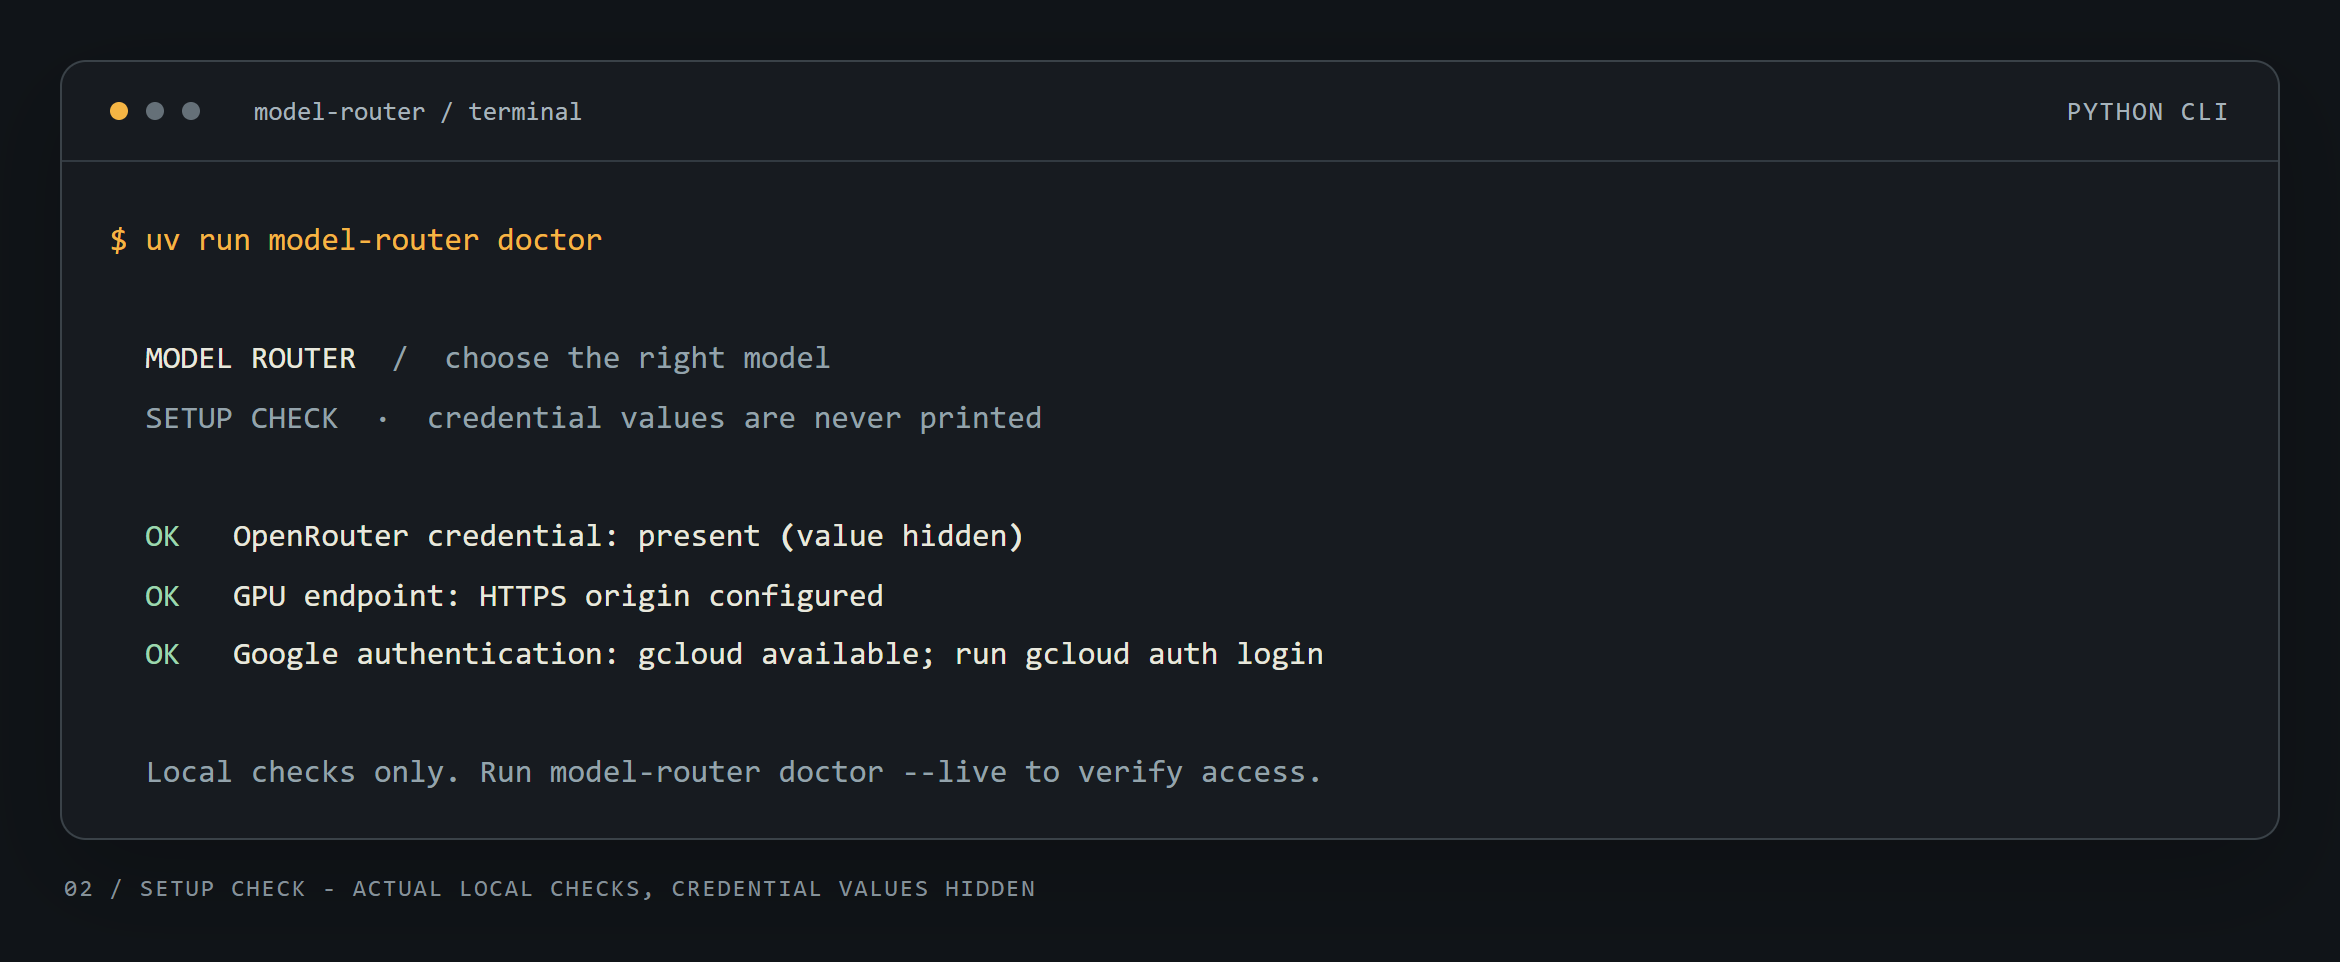
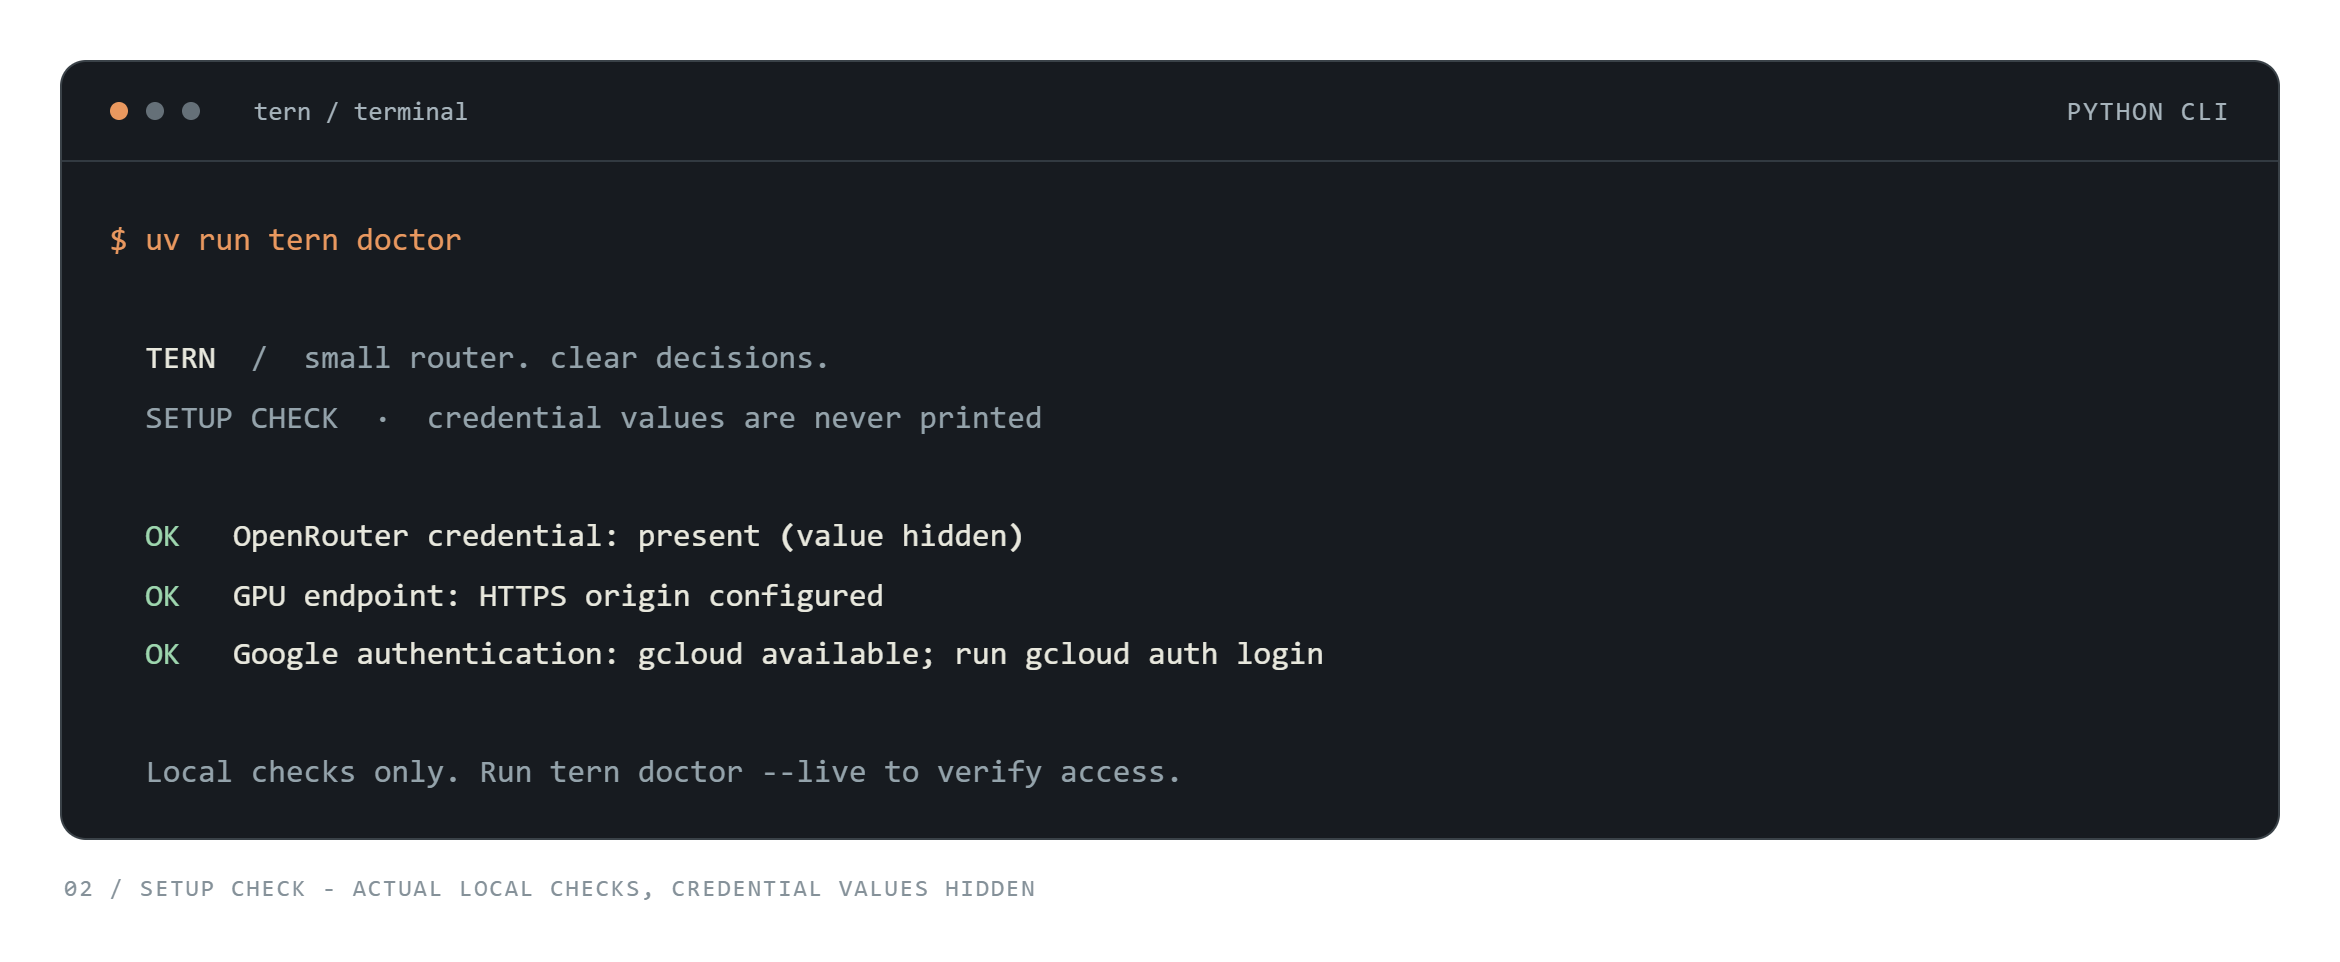
Rebrand Tern with transparent flight marks and theme-aware wordmarks

diff --git a/scripts/render_assets.py b/scripts/render_assets.py
@@ -42,7 +42,7 @@ def capture(command, stem, caption, browser):
         file=output, record=True, width=108, force_terminal=True, color_system="truecolor",
         legacy_windows=False,
     )
-    console.print("$ uv run model-router " + " ".join(command), style="accent")
+    console.print("$ uv run tern " + " ".join(command), style="accent")
     result = subprocess.run(
         [
             sys.executable,
@@ -70,13 +70,13 @@ def capture(command, stem, caption, browser):
     (ASSETS / f"{stem}.txt").write_text(transcript, encoding="utf-8")
     html = """<!doctype html><html><head><meta charset="utf-8"><style>
       * { box-sizing: border-box; }
-      body { margin: 0; background: #101418; padding: 30px; color: #e8e8dd; }
+      body { margin: 0; background: transparent; padding: 30px; color: #e8e8dd; }
       .frame { border: 1px solid #3a4248; border-radius: 13px; overflow: hidden;
-        background: #171b20; box-shadow: 0 18px 50px #0003; }
+        background: #171b20; }
       .bar { height: 50px; border-bottom: 1px solid #323a41; display: flex;
         align-items: center; padding: 0 24px; gap: 9px; font: 13px 'Consolas', monospace; }
       .dot { width: 9px; height: 9px; border-radius: 50%; background: #657078; }
-      .dot:first-child { background: #f5b544; }
+      .dot:first-child { background: #e9985f; }
       .title { margin-left: 18px; color: #a6b3bb; }
       .tag { margin-left: auto; color: #a6b3bb; letter-spacing: 1px; }
       pre { margin: 0; padding: 24px 24px 18px; font: 16px/1.85 'Consolas', 'Liberation Mono', monospace;
@@ -85,15 +85,15 @@ def capture(command, stem, caption, browser):
         letter-spacing: 1px; }
     </style></head><body><main><div class="frame"><div class="bar">
       <span class="dot"></span><span class="dot"></span><span class="dot"></span>
-      <span class="title">model-router / terminal</span><span class="tag">PYTHON CLI</span>
+      <span class="title">tern / terminal</span><span class="tag">PYTHON CLI</span>
       </div><pre>TERMINAL</pre></div><div class="caption">CAPTION</div></main></body></html>"""
     page = browser.new_page(viewport={"width": 1170, "height": 750}, device_scale_factor=2)
     page.set_content(html.replace("TERMINAL", terminal).replace("CAPTION", caption))
-    page.screenshot(path=str(ASSETS / f"{stem}.png"), full_page=True)
+    page.screenshot(path=str(ASSETS / f"{stem}.png"), full_page=True, omit_background=True)
     # Crop by choosing a viewport matching layout, not by editing the resulting image.
     height = page.locator("body").evaluate("el => el.getBoundingClientRect().height")
     page.set_viewport_size({"width": 1170, "height": round(height)})
-    page.screenshot(path=str(ASSETS / f"{stem}.png"), full_page=True)
+    page.screenshot(path=str(ASSETS / f"{stem}.png"), full_page=True, omit_background=True)
     page.close()
     print(f"Saved {stem}.png and text transcript")
 

diff --git a/src/model_router/cli.py b/src/model_router/cli.py
@@ -39,7 +39,7 @@ def make_console(**kwargs):
 
 def heading(console, subtitle):
     console.print()
-    console.print("[accent bold]  TERN[/]  [muted]/  choose the right model[/]")
+    console.print("[accent bold]  TERN[/]  [muted]/  small router. clear decisions.[/]")
     console.print(f"  [muted]{subtitle}[/]")
     console.print()
 
@@ -224,7 +224,7 @@ async def chat(args, console):
 
 def parser():
     result = argparse.ArgumentParser(
-        prog="tern", description="Choose the right model. Start with a free offline demo."
+        prog="tern", description="Small router. Clear decisions. Start with a free offline demo."
     )
     result.add_argument(
         "--env-file", type=Path, default=Path(".env"), help="local configuration (default: .env)"

diff --git a/docs/branding.md b/docs/branding.md
@@ -1,26 +1,32 @@
-# Model Router identity
+# Tern identity
 
-The branching route mark represents one request and a deliberate choice between two model tiers. The visual language uses graphite, warm ivory and amber, with monospace terminal typography. Assets work on GitHub's light and dark README surfaces.
+**Tern — small router, clear decisions.**
+
+A tern's flight gives the project its name and mark. Two angular wings meet at a junction, suggesting a choice of routes. The identity uses burnt orange with charcoal or ivory lettering. The logo and wordmarks have real alpha transparency: no rectangular banner, grid, or painted backdrop.
 
 | Asset | File | Purpose |
 |---|---|---|
-| Transparent route mark | [logo.png](assets/logo.png) | Small project identity and README footer |
-| Editorial hero | [hero.png](assets/hero.png) | README cover; includes the wordmark and route symbol |
-| Offline terminal | [terminal-demo.png](assets/terminal-demo.png) | Real CLI output using synthetic model responses |
-| Setup terminal | [terminal-doctor.png](assets/terminal-doctor.png) | Real local setup checks; credential values hidden |
+| Standalone flight mark | [logo.png](assets/logo.png) | Transparent icon |
+| Light-theme wordmark | [wordmark-light.png](assets/wordmark-light.png) | Orange mark and charcoal lettering |
+| Dark-theme wordmark | [wordmark-dark.png](assets/wordmark-dark.png) | Orange mark and ivory lettering |
+| Offline terminal | [terminal-demo.png](assets/terminal-demo.png) | Actual Tern CLI output with a transparent outer canvas |
+| Setup terminal | [terminal-doctor.png](assets/terminal-doctor.png) | Actual local checks with credential values hidden |
 
-Keep generous space around the mark. Do not attach unverified performance numbers, certification badges or quality claims to the identity.
+The README selects the correct wordmark through a `picture` element and `prefers-color-scheme`. The terminal interiors stay opaque for text contrast; their surrounding canvas is transparent.
 
 ## Palette
 
 | Color | Hex | Use |
 |---|---|---|
-| Graphite | `#171B20` | Main background |
-| Ink | `#101418` | Terminal surround |
-| Ivory | `#E8E8DD` | Main text |
-| Amber | `#F5B544` | Brand and economy route |
-| Sage | `#9DD6AE` | Successful checks and strong route |
-| Slate | `#94A3AB` | Secondary labels |
+| Burnt orange | `#D97732` | Flight mark |
+| Charcoal | `#20252B` | Lettering on light pages |
+| Ivory | `#F0EEE8` | Lettering on dark pages |
+| Warm orange | `#E9985F` | Terminal accents |
+| Graphite | `#171B20` | Terminal interior |
+| Sage | `#9DD6AE` | Successful checks |
+| Slate | `#94A3AB` | Secondary terminal labels |
+
+Keep clear space around the identity. Use the supplied theme variants rather than placing a background rectangle behind the logo. Do not attach unsupported performance or quality claims to the mark.
 
 ## Reproduce terminal screenshots
 
@@ -28,18 +34,30 @@ Keep generous space around the mark. Do not attach unverified performance number
 uv run --extra cli --with playwright python scripts/render_assets.py
 ```
 
-Install Chrome, or specify `--browser /path/to/chromium`. The script starts CLI subprocesses with a 108-column, true-color console, captures their actual output and renders it in a terminal frame through headless Chromium. The frame is presentation; command output is not handwritten. Plain text transcripts are saved beside the PNGs for accessibility. It never calls inference endpoints.
+Install Chrome, or specify `--browser /path/to/chromium`. The script starts real CLI subprocesses, captures their output, and renders a terminal frame in Chromium with the page background omitted. Text transcripts are saved beside the PNGs. It does not call inference endpoints.
 
-The `doctor` capture reflects the machine's real configuration. Reproducing the successful screenshot requires a configured `.env` and a local gcloud installation; it fails instead of fabricating successful checks. The screenshots do not imply that local checks authenticate to a remote service.
+The doctor screenshot reflects actual local configuration. Reproducing its successful checks needs a configured `.env` and gcloud installation. The capture fails rather than fabricating success. Local checks do not authenticate to remote services.
 
-## Generated asset provenance
+## Names in code
 
-The logo and hero were generated with the **built-in imagegen tool**, then copied into `docs/assets/`. The hero uses the logo as its identity reference. No CLI image-generation fallback was used. Terminal screenshots are programmatic captures, not image-generated terminal text.
+The project and GitHub repository are **Tern**. The Python distribution is `tern-router`, and the primary command is `tern`. The `model-router` command remains a compatibility alias, and the Python import namespace remains `model_router`. Cloud service names and historical benchmark artifacts retain their original identifiers so recorded results remain reproducible.
 
-### Logo prompt
+## Asset provenance and prompts
 
-> Use case: logo-brand. Create a finished, premium developer-tool logo for an open-source-style Python project called Model Router. Asset: standalone icon, 1024 square, genuinely transparent background. The symbol should communicate a single input splitting into two carefully chosen routes. Draw a bold geometric three-way switch / branching circuit monogram using warm amber (#F5B544) thick continuous paths and three small rounded-square endpoints; dark graphite (#171B20) accents only if needed. Strong simple silhouette, precise 45-degree geometry, restrained industrial wayfinding aesthetic, flat vector-like rendering, crisp edges, centered with generous transparent margin. No lettering, no gradients, no glow, no shadows, no 3D, no mockup, no surrounding frame, no watermark. It must read clearly at favicon scale and on dark or light backgrounds. Save the result as a project-ready PNG.
+The wordmarks and standalone mark were generated/edited with the **built-in imagegen tool**. Each PNG was copied into this repository and checked for transparent pixels. No CLI image-generation fallback or programmatic background removal was used. Terminal images come from actual CLI output.
 
-### Hero prompt
+### Light-theme wordmark
 
-> Use case: logo-brand. Create a premium GitHub README hero banner for Model Router, very wide 3:1 aspect ratio. Use the attached logo as the brand identity reference: amber one-to-two branching route symbol with rounded square endpoints. Make a finished editorial technology brand composition on a solid very dark graphite #171B20 canvas with a fine subtle technical grid. Left two-thirds: small amber eyebrow 'MLX / GPU / OPENROUTER', huge immaculate warm ivory modern geometric sans-serif lettering on two lines 'MODEL' then 'ROUTER', with the small subtitle 'Choose the right model.' underneath. Right third: an elegant large amber branching route symbol matching the attached logo, integrated into thin route lines with tiny ivory labels 'ECONOMY' above and 'STRONG' below. Bottom a very fine divider and small understated text 'SMALL CLASSIFIER. DELIBERATE DECISIONS.' Wide generous safe margins so nothing is cropped. Restrained industrial wayfinding meets Swiss editorial design, beautifully kerned typography, crisp precise shapes, high contrast. Flat graphic layout. No gradients, no glow, no 3D objects, no fake statistics, no stars, no badges, no photos, no decorative nonsense. This is the final project banner, not a website screenshot or device mockup.
+> Use case: logo-brand. Design a finished premium logo lockup for TERN, a developer tool that routes requests between AI models. Genuinely transparent RGBA background, no backdrop of any kind. Wide horizontal composition about 3:1. On the left a beautifully simple geometric tern bird in flight, constructed from two angular ribbon-like wings that also suggest a branching route. Confident distinctive silhouette, subtle negative-space junction, no eyes or illustration detail. Mark in a single flat burnt orange #D97732 that remains visible on white and dark charcoal. To its right the exact word 'tern' in lowercase, generously kerned custom geometric sans-serif, substantial medium-bold weight, precise beautifully drawn letterforms. Wordmark in solid dark charcoal #20252B, intended for a light page. Both mark and lettering vertically centered, balanced optical sizing, comfortable but not excessive transparent margins. Refined contemporary open-source tooling identity. Only the mark and the four letters t e r n. Absolutely no tagline, no rectangular panel, no grid, no texture, no gradient, no white background, no black background, no shadows, no glow, no 3D, no checkerboard baked into the image, no watermark. The empty areas must be actual alpha transparency.
+
+### Dark-theme wordmark edit
+
+Reference: `wordmark-light.png`.
+
+> Edit this Tern logo lockup. Change ONLY the dark charcoal lettering of the exact word 'tern' to solid warm ivory #F0EEE8, so it works on a dark webpage. Preserve the burnt-orange bird mark exactly: same shape, color, position and size. Preserve the lettering shapes, spacing, alignment, composition and image dimensions exactly. Keep a genuinely transparent RGBA background, all negative space fully transparent, no backdrop, no rectangle, no texture, no checkerboard, no shadow or glow. The result is the dark-theme transparent wordmark.
+
+### Standalone mark edit
+
+Reference: `wordmark-light.png`.
+
+> Extract the burnt-orange geometric tern bird mark from the attached Tern logo into a standalone square transparent icon. Remove all four letters completely. Preserve the bird's exact silhouette, wing shapes, negative space and color. Center the bird on a square canvas with comfortable transparent margins on every side, sized large enough to read at 32px. Genuinely transparent RGBA background, not white or black or a checkerboard pattern. Only the single burnt-orange bird mark; no type, no extra paths, no shadow, no glow, no panel.

diff --git a/README.md b/README.md
@@ -1,11 +1,14 @@
 <p align="center">
-  <img src="docs/assets/hero.png" alt="Model Router — Choose the right model. MLX GPU routing with economy and strong paths." width="100%">
+  <picture>
+    <source media="(prefers-color-scheme: dark)" srcset="docs/assets/wordmark-dark.png">
+    <img src="docs/assets/wordmark-light.png" alt="Tern — an angular bird in flight beside the tern wordmark" width="560">
+  </picture>
 </p>
 
 <p align="center">
-  <a href="https://github.com/AmRitJain0442/model-router/actions/workflows/check.yml"><img src="https://img.shields.io/badge/CI-GitHub_Actions-9dd6ae?style=flat&labelColor=303840" alt="View GitHub Actions checks"></a>
-  <img src="https://img.shields.io/badge/python-3.11%2B-171b20?style=flat&labelColor=303840&color=f5b544" alt="Python 3.11 or later">
-  <img src="https://img.shields.io/badge/status-experimental-f5b544?style=flat&labelColor=303840" alt="Experimental">
+  <a href="https://github.com/AmRitJain0442/tern/actions/workflows/check.yml"><img src="https://img.shields.io/badge/CI-GitHub_Actions-9dd6ae?style=flat&labelColor=303840" alt="View GitHub Actions checks"></a>
+  <img src="https://img.shields.io/badge/python-3.11%2B-171b20?style=flat&labelColor=303840&color=d97732" alt="Python 3.11 or later">
+  <img src="https://img.shields.io/badge/status-experimental-d97732?style=flat&labelColor=303840" alt="Experimental">
 </p>
 
 <p align="center">
@@ -16,11 +19,11 @@
   <a href="CONTRIBUTING.md">Contributing</a>
 </p>
 
-# Model Router
+# Tern
 
-**A small GPU classifier. A deliberate choice of LLM.**
+**Small router. Clear decisions.**
 
-Model Router uses [Laya-MLX](https://huggingface.co/aac6fef/laya-mlx) to help choose between economy and strong models, then sends your request through OpenRouter. It combines capability checks, conservative fallback, and an async Python adapter that preserves messages, tool calls, streaming chunks, and usage.
+Tern uses [Laya-MLX](https://huggingface.co/aac6fef/laya-mlx) to help choose between economy and strong models, then sends your request through OpenRouter. It combines capability checks, conservative fallback, and an async Python adapter that preserves messages, tool calls, streaming chunks, and usage.
 
 Start with the free offline demo. Connect your private GPU endpoint when you're ready.
 
@@ -29,10 +32,10 @@ Start with the free offline demo. Connect your private GPU endpoint when you're 
 Requires [uv](https://docs.astral.sh/uv/getting-started/installation/) and Git. The repository currently requires collaborator access.
 
 ```sh
-git clone https://github.com/AmRitJain0442/model-router.git
-cd model-router
+git clone https://github.com/AmRitJain0442/tern.git
+cd tern
 uv sync --extra cli --python 3.12
-uv run model-router demo
+uv run tern demo
 ```
 
 **No API key. No GPU. No network calls in the demo.** Installation downloads Python packages; the demo itself runs locally through the real adapter with synthetic model responses.
@@ -44,11 +47,11 @@ uv run model-router demo
 ## Connect your models
 
 ```sh
-uv run model-router init
+uv run tern init
 # Add your OpenRouter key to .env. Existing values are never overwritten.
 gcloud auth login
-uv run model-router doctor --live
-uv run model-router chat "Explain idempotency in two sentences." --stream
+uv run tern doctor --live
+uv run tern chat "Explain idempotency in two sentences." --stream
 ```
 
 The CLI reads `.env` automatically. Live use needs an OpenRouter key and Cloud Run invoker access to the configured Laya service. The default endpoint is private; use your own `LAYA_ENDPOINT` if you are deploying separately. `doctor --live` checks access and wakes the GPU without buying an LLM completion. Live GPU use and `chat` can incur charges.
@@ -60,7 +63,7 @@ The CLI reads `.env` automatically. Live use needs an OpenRouter key and Cloud R
 The GPU service runs in **shadow mode**, so live requests default to the strong model. To explicitly try economy routing:
 
 ```sh
-uv run model-router chat "Rewrite politely: send the report." --experimental-threshold 0.7
+uv run tern chat "Rewrite politely: send the report." --experimental-threshold 0.7
 ```
 
 That threshold is an experiment, not a quality guarantee. [Full setup and troubleshooting →](docs/quickstart.md)
@@ -125,11 +128,11 @@ uv run pytest -q
 uv run ruff check src tests scripts examples
 ```
 
-Tests run without cloud credentials or inference hardware. CI checks every push and pull request. Live tests are explicit and separate. Project code is under [`src/model_router`](src/model_router); [issues](https://github.com/AmRitJain0442/model-router/issues) and focused pull requests are welcome from collaborators.
+Tests run without cloud credentials or inference hardware. CI checks every push and pull request. Live tests are explicit and separate. Project code is under [`src/model_router`](src/model_router); [issues](https://github.com/AmRitJain0442/tern/issues) and focused pull requests are welcome from collaborators.
 
 ---
 
 <p align="center">
-  <img src="docs/assets/logo.png" alt="Model Router branching route mark" width="56"><br>
+  <img src="docs/assets/logo.png" alt="Tern flight mark" width="56"><br>
   <sub>Built with <a href="https://github.com/mizorewww/laya-mlx">Laya-MLX</a>, <a href="https://github.com/ml-explore/mlx">MLX</a> and <a href="https://openrouter.ai">OpenRouter</a>.</sub>
 </p>
